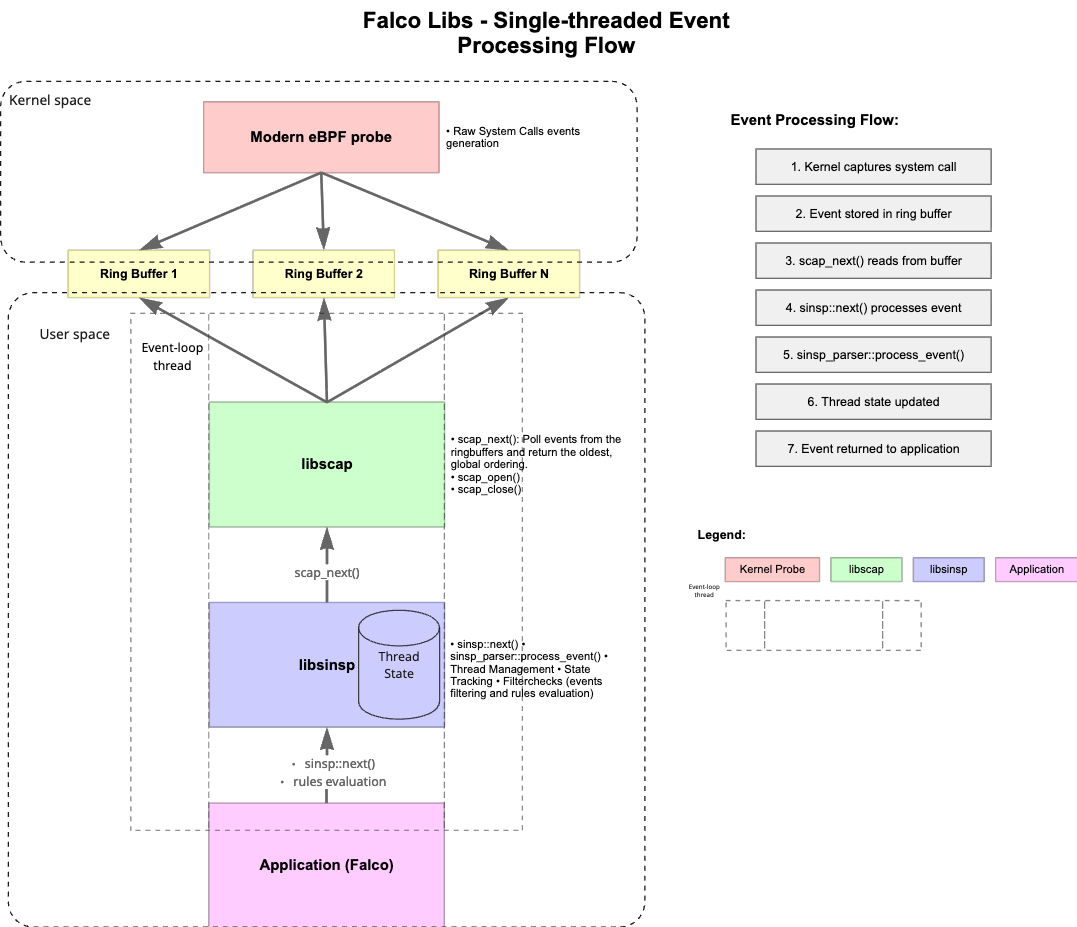
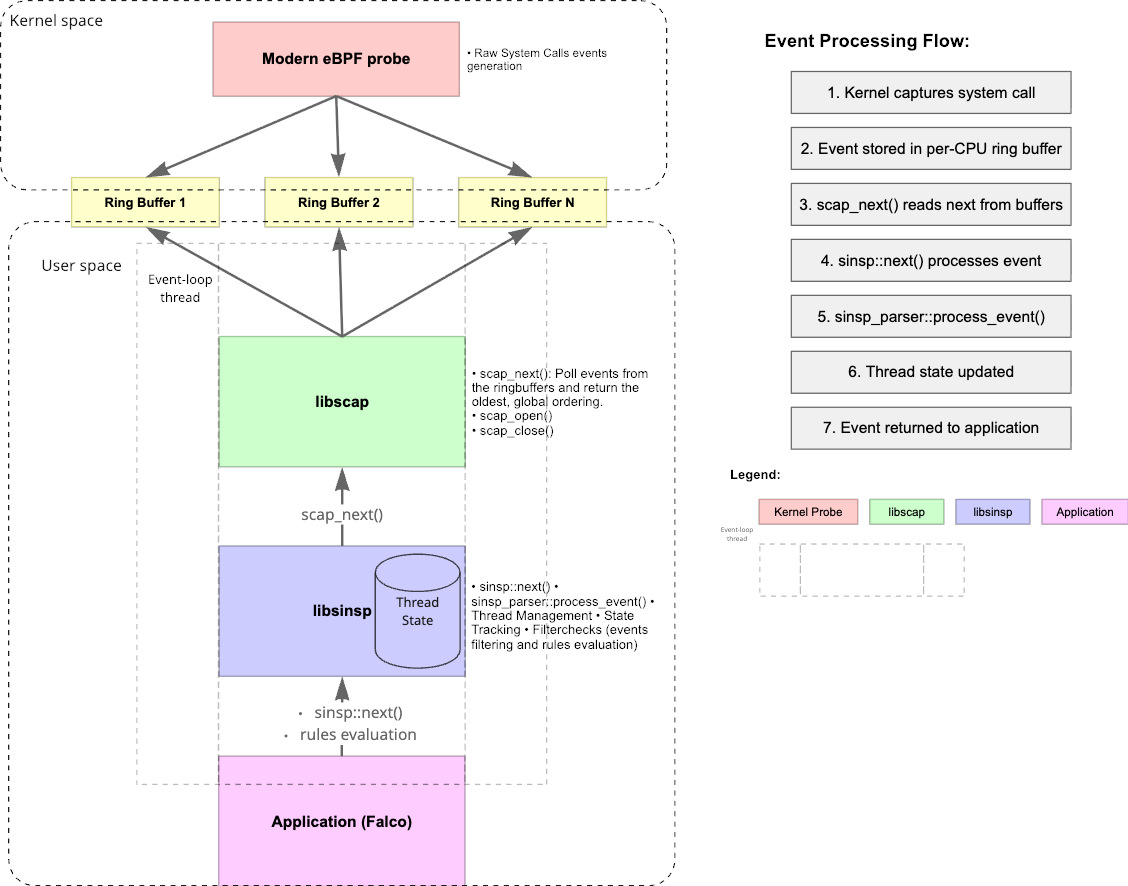
docs: high-level Falco multi-threaded architecture

diff --git a/proposals/20251205-multi-thread-falco-design.md b/proposals/20251205-multi-thread-falco-design.md
@@ -1,4 +1,3 @@
-
 # Multi-Threaded Falco High-Level Design (Working draft)
 
 ## Summary
@@ -15,6 +14,29 @@ This document does not cover low-level implementation details that will be addre
 
 ## High-Level Design
 
-### Architecture Overview
+### Current Architecture
 
-![Multi-Threaded Falco Architecture](images/multi_threaded_falco_architecture.png)
+![Current Falco Architecture](images/falco-architecture.png)
+
+* The kernel driver (via kmod or eBPF) writes events into per-CPU ring buffers. Each CPU has its own buffer to avoid lock contention. We have a ring buffer per CPU core, and a single userspace.
+* Userspace (libscap) performs an `O(n_cpus)` scan on every next() call, it peeks at the head event from each ring buffer, finds the event with the minimum timestamp across all buffers and returns that event to Falco for processing. The consumer position is only advanced after the event has been consumed (on the next call), ensuring the caller can safely read the event data and avoiding to perform copies of the event data.
+* Libsinsp processes the events sequentially as they are received from libscap, building a stateful representation of the system and providing the necessary context for rule evaluation.
+* Falco evaluates the rules against the processed events and generates alerts based on the defined security policies.
+
+### Proposed Architecture Overview
+
+![Multi-Threaded Falco Architecture](images/falco-multi-thread-architecture.png)
+
+* The kernel driver (modern eBPF probe) writes event into per-TGID ring buffers. Only the modern eBPF probe is supported, as it relies on [BPF_MAP_TYPE_RINGBUF](https://docs.ebpf.io/linux/map-type/BPF_MAP_TYPE_RINGBUF/) which does not have a per-CPU design as opposed of the `BPF_MAP_TYPE_PERF_EVENT_ARRAY` used by the legacy eBPF probe.
+* Each buffer is associated with an event loop worker thread, that processes events from its assigned ring buffer.
+* The `libsinsp` state, e.g. the thread state is maintained in a shared data structure, allowing all workers to access data pushed by other workers. This is crucial for handling events like clone() that rely on data written by other partitions.
+This requires designing lightweight synchronization mechanisms to ensure efficient access to shared state without introducing significant contention. A dedicated proposal document will address the design of the shared state and synchronization mechanisms, and data consistency.
+* Falco's rule evaluation is performed in parallel by multiple worker threads, each evaluating rules against the events they process.
+Current Falco plugins are not supposed to be thread-safe. A dedicated proposal document will address the design of a thread-safe plugin architecture.
+
+### Risks and Mitigations
+
+- **Increased Complexity**: Multi-threading introduces complexity in terms of synchronization and state management. Mitigation: Careful design of shared state and synchronization mechanisms, along with thorough testing.
+- **Synchronization Overhead vs Performance Gains**: The overhead of synchronization might negate the performance benefits of multi-threading. Mitigation: Use lightweight synchronization techniques and minimize shared state access.
+- **Synchronization Overhead vs Data Consistency**: In order to keep the synchronization overhead low with the shared state, we might need to relax some data consistency guarantees. Mitigation: Analyze the trade-offs and ensure that any relaxed guarantees do not compromise security.
+- **Uneven load balancing**: On large systems with a few syscall intensive processes, the load might not be evenly distributed across worker threads. Mitigation: Evaluate different load balancing strategies, such as per-TID. This would increase the contention on the shared state, so a careful analysis of the trade-offs is needed.
